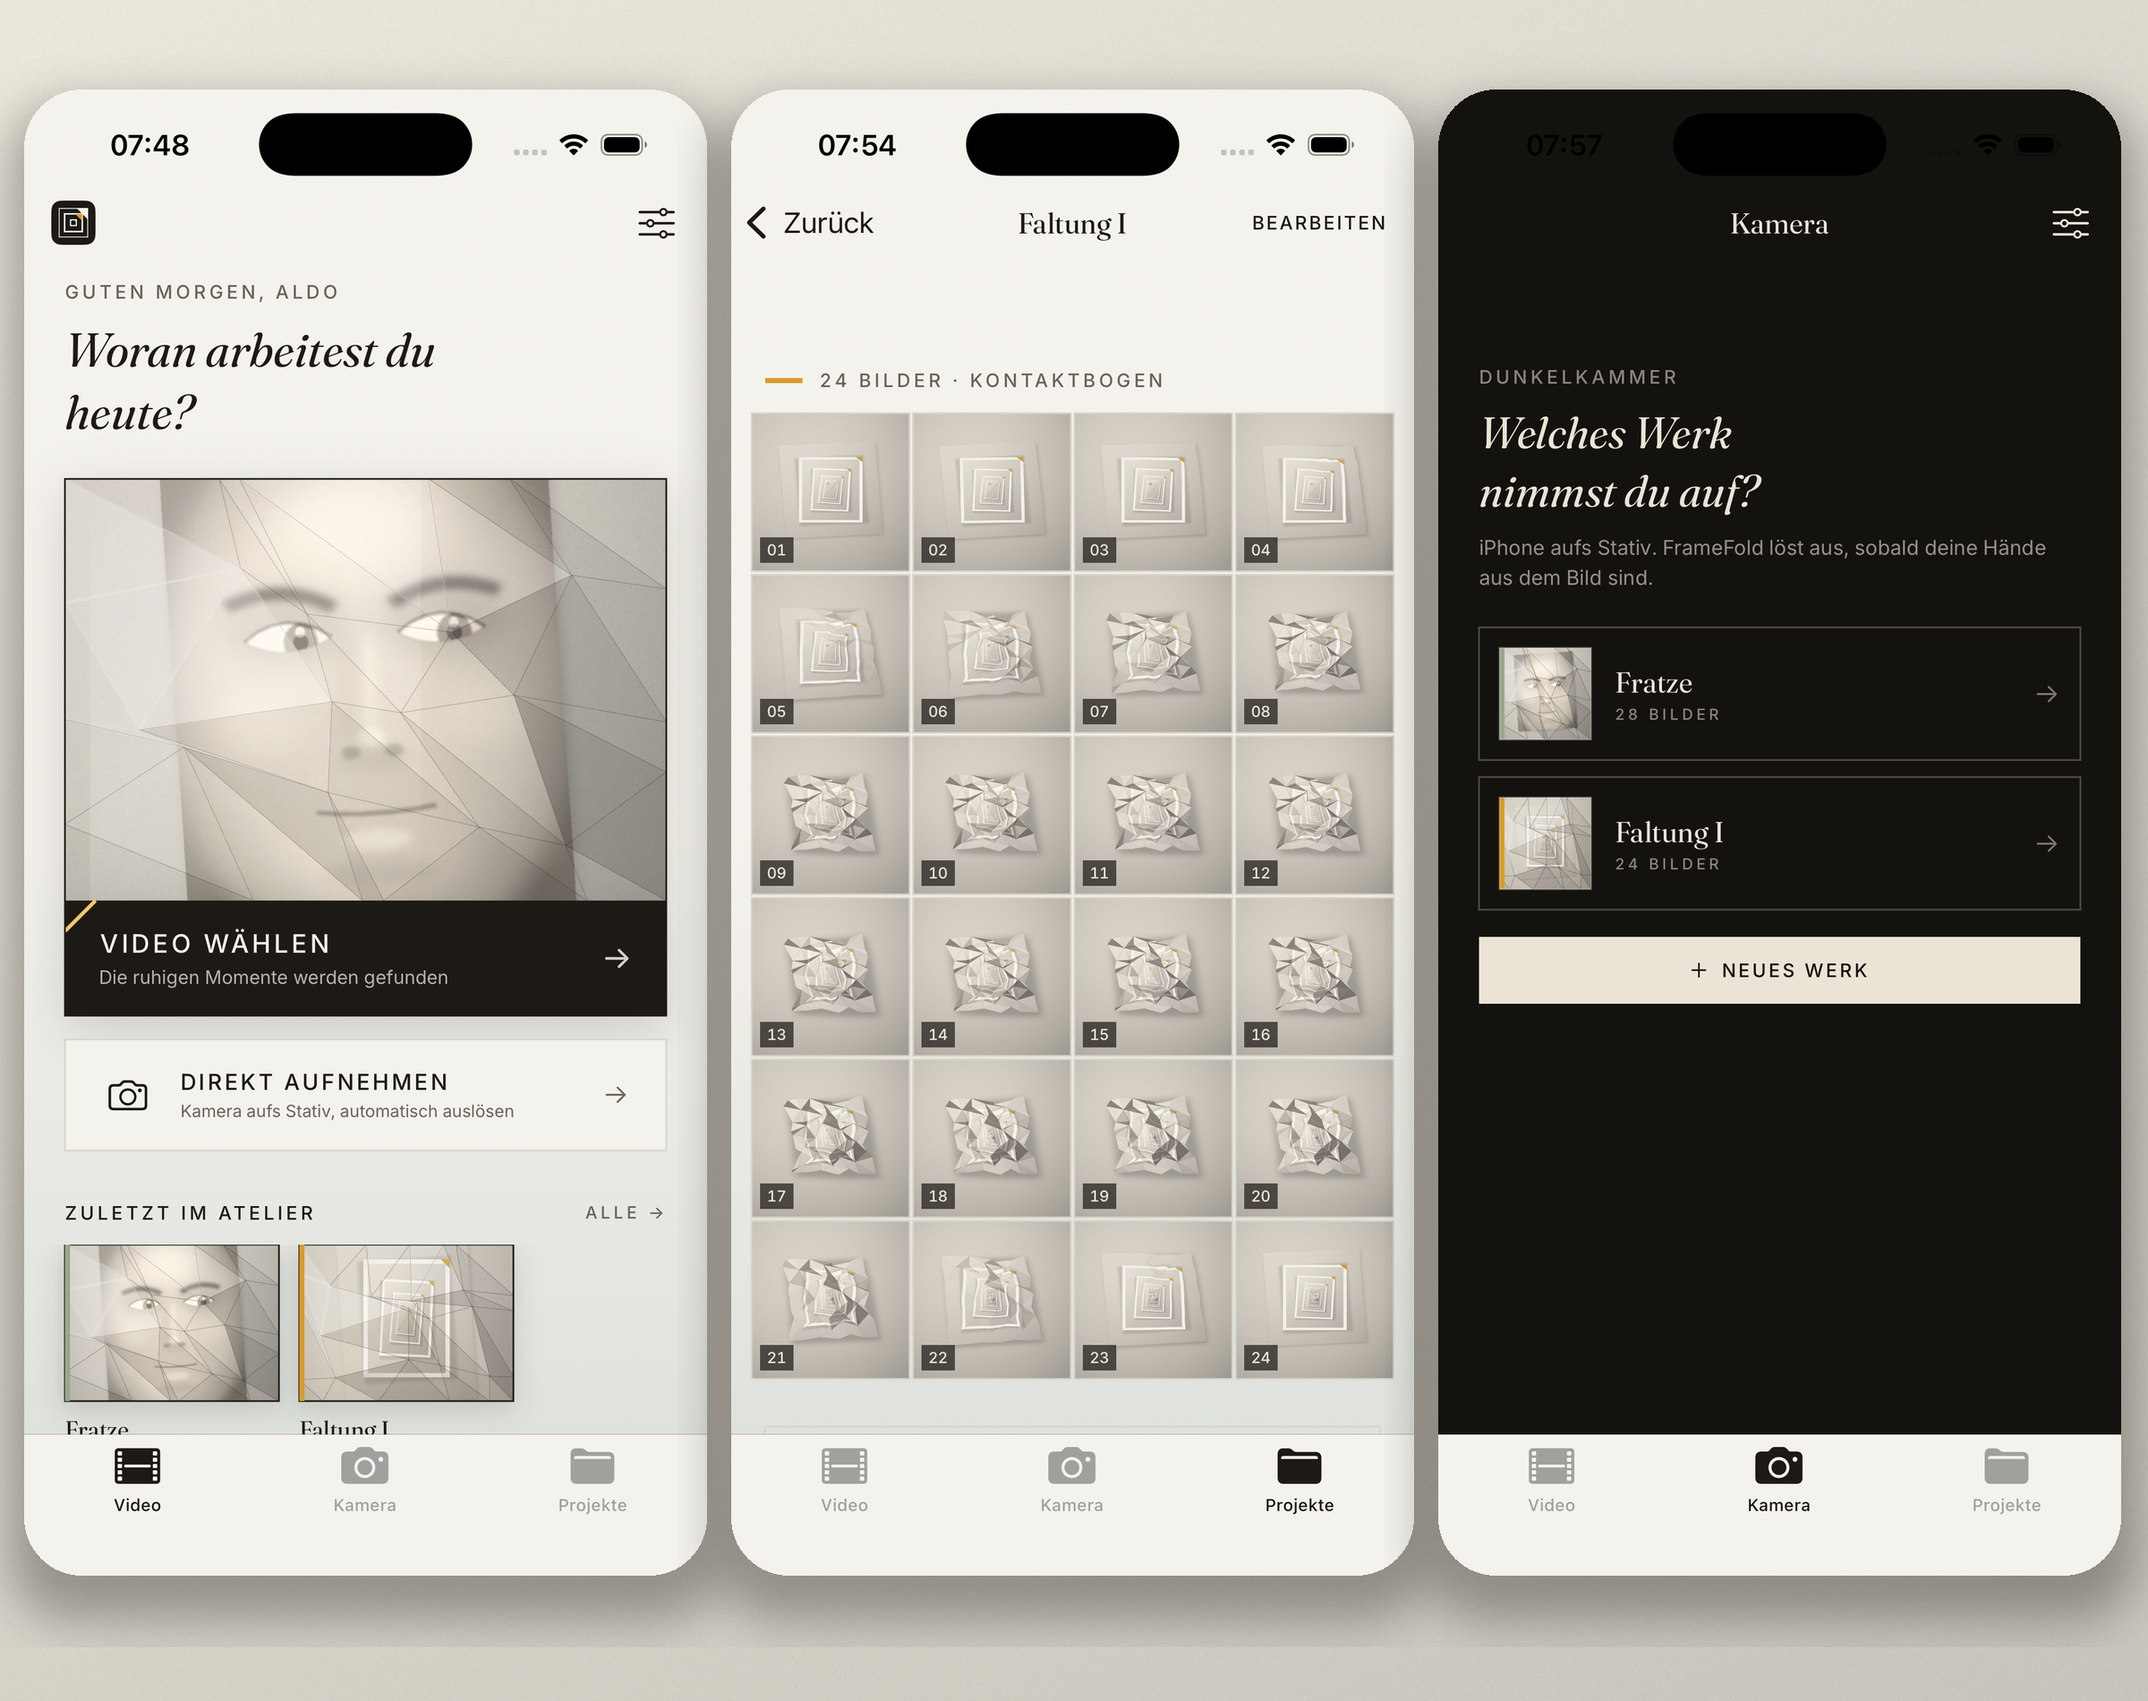
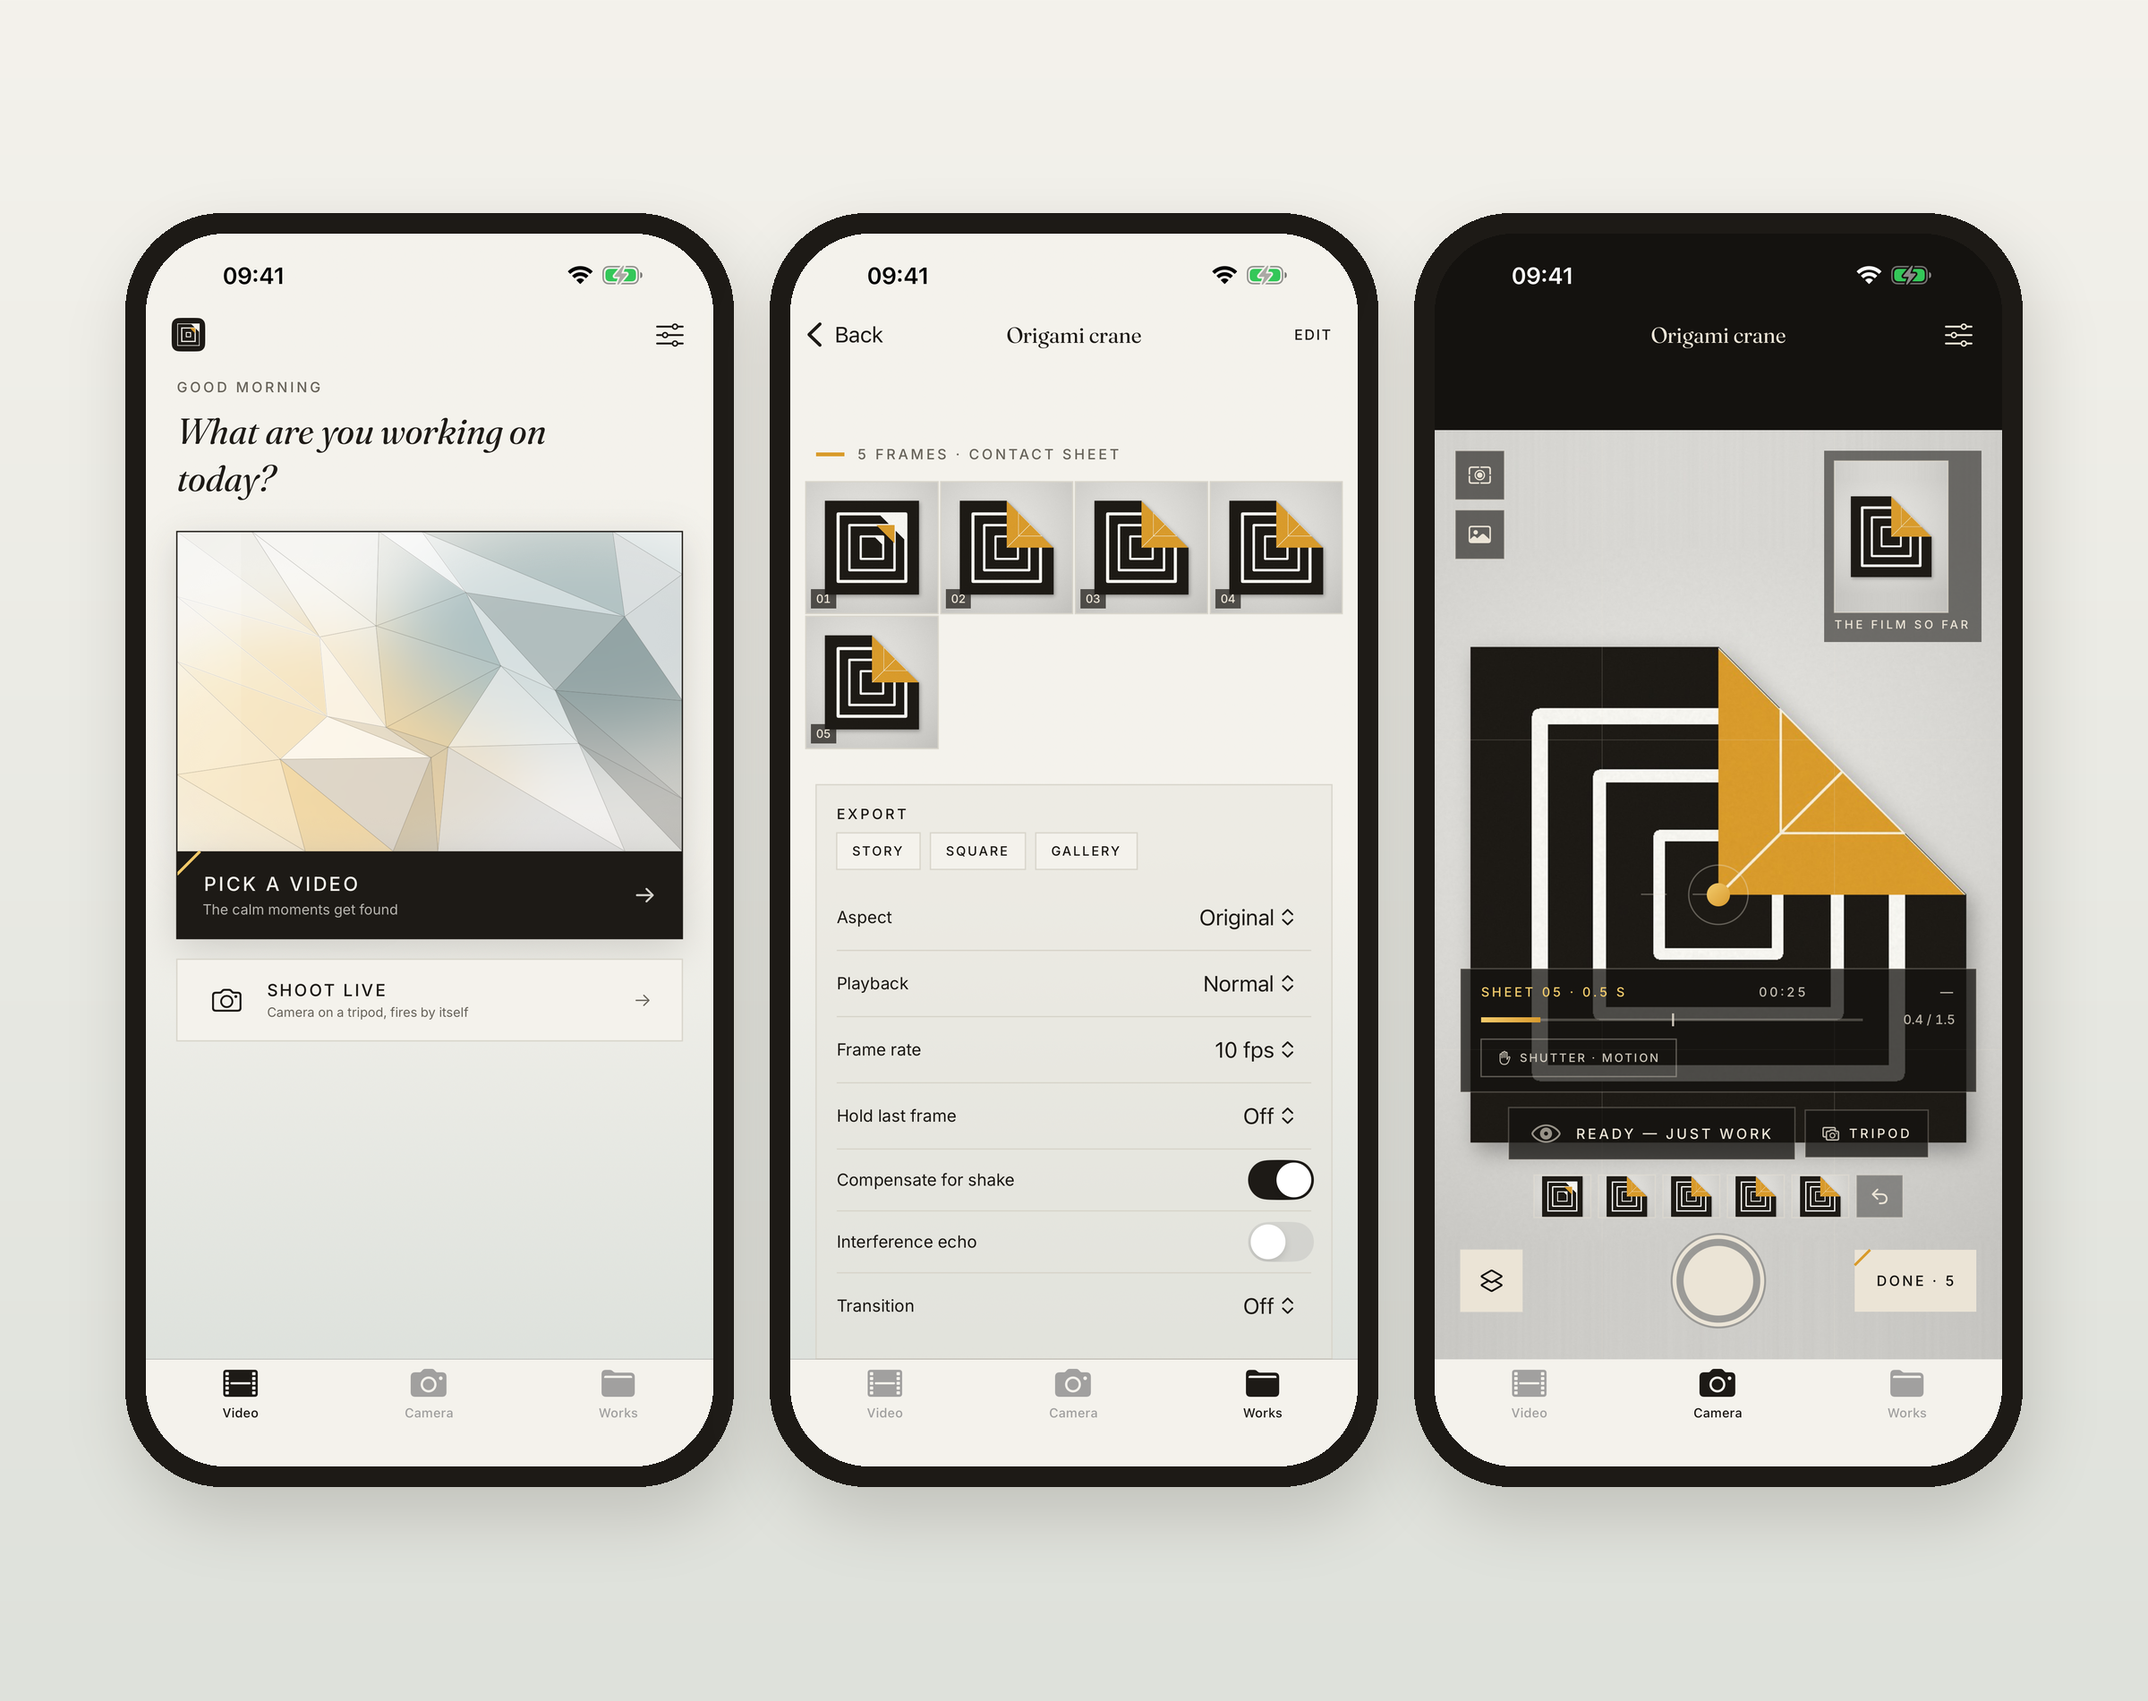
README-Bilder ohne Aldo-Material: Titelbild, Demo-GIF, Social-Preview neu
- docs/app.png: drei iPhones mit den 2.3-Store-Bildern (EN) statt
  „Guten Morgen, Aldo“, „Fratze“ und „Faltung I“.
- docs/demo.gif: das eigene Faltbeispiel aus dem Spot statt Aldos Faltung.
- docs/social-preview.png: ohne Aldo-Zeile, aktuell (iPhone, Mac, Watch).
- Bildunterschriften zu GIF und Spot angepasst.
- scripts/readme_assets.py erzeugt alle drei aus eigenem Material.

diff --git a/scripts/readme_assets.py b/scripts/readme_assets.py
@@ -1,0 +1,104 @@
+#!/usr/bin/env python3
+"""Bilder für die README: Titelbild (drei iPhones mit den Store-Bildern),
+Demo-GIF (das eigene Faltbeispiel aus dem Spot) und Social-Preview.
+Nur eigenes Material.
+
+  eval/.venv/bin/python scripts/readme_assets.py
+"""
+from pathlib import Path
+
+import numpy as np
+from PIL import Image, ImageDraw, ImageFilter, ImageFont
+
+ROOT = Path(__file__).resolve().parent.parent
+DOCS = ROOT / "docs"
+SHOTS = ROOT / "fastlane" / "screenshots" / "en-US"
+ASSETS = ROOT / "FrameFold" / "Assets.xcassets"
+FOLD = ROOT.parent / "framefold-spot" / "faltung.npy"
+INK, GRAPHITE, AMBER = (29, 26, 22), (104, 100, 91), (217, 155, 43)
+
+
+def font(name, size):
+    return ImageFont.truetype(str(ASSETS / f"{name}.dataset" / f"{name}.ttf"), size)
+
+
+def backdrop(w, h):
+    """Heller Galerieverlauf, oben warmes Papier, unten kühler."""
+    top, bottom = np.array([244, 242, 236], np.float32), np.array([222, 225, 219], np.float32)
+    t = np.linspace(0, 1, h, dtype=np.float32)[:, None, None]
+    img = top * (1 - t) + bottom * t
+    return Image.fromarray(np.repeat(img, w, axis=1).astype(np.uint8))
+
+
+def phone(shot, width):
+    """Bildschirmfoto im schlichten iPhone-Rahmen mit runden Ecken."""
+    s = Image.open(shot).convert("RGB")
+    sw = width - 2 * int(width * 0.035)
+    sh = int(sw * s.height / s.width)
+    s = s.resize((sw, sh), Image.LANCZOS)
+    b = int(width * 0.035)
+    w, h = width, sh + 2 * b
+    body = Image.new("RGB", (w, h), INK)
+    mask = Image.new("L", (w, h), 0)
+    ImageDraw.Draw(mask).rounded_rectangle((0, 0, w - 1, h - 1), radius=int(w * 0.16), fill=255)
+    smask = Image.new("L", (sw, sh), 0)
+    ImageDraw.Draw(smask).rounded_rectangle((0, 0, sw - 1, sh - 1), radius=int(w * 0.13), fill=255)
+    body.paste(s, (b, b), smask)
+    return body, mask
+
+
+def header():
+    W, H = 2400, 1900
+    img = backdrop(W, H)
+    pw = 680
+    names = ["01-start.png", "04-kontaktbogen.png", "02-kamera.png"]
+    xs = [140, (W - pw) // 2, W - 140 - pw]
+    for name, x in zip(names, xs):
+        body, mask = phone(SHOTS / name, pw)
+        y = (H - body.height) // 2
+        sh = Image.new("L", (W, H), 0)
+        sh.paste(mask.point(lambda v: v * 0.30), (x + 10, y + 34))
+        sh = sh.filter(ImageFilter.GaussianBlur(36))
+        img.paste(Image.new("RGB", (W, H), (120, 116, 108)), (0, 0), sh)
+        img.paste(body, (x, y), mask)
+    img.save(DOCS / "app.png", optimize=True)
+
+
+def demo_gif():
+    """Das Faltbeispiel hin und zurück im Stopmotion-Takt, 420 × 560."""
+    frames = np.load(FOLD)
+    W, H = 420, 560
+    picks = list(range(0, 96, 3)) + list(range(93, -1, -4))
+    out = []
+    bg = backdrop(W, H)
+    for i in picks:
+        f = Image.fromarray(frames[i]).resize((W, W), Image.LANCZOS)
+        im = bg.copy()
+        im.paste(f, (0, (H - W) // 2))
+        out.append(im.quantize(colors=96, method=Image.MEDIANCUT, dither=Image.NONE))
+    out[0].save(DOCS / "demo.gif", save_all=True, append_images=out[1:], duration=120, loop=0, optimize=True)
+    return len(out)
+
+
+def social():
+    W, H = 2560, 1280
+    img = backdrop(W, H)
+    d = ImageDraw.Draw(img)
+    d.text((240, 330), "STOP-MOTION · BY ITSELF", font=font("Inter-Medium", 46), fill=GRAPHITE)
+    d.text((228, 400), "FrameFold", font=font("Fraunces-Regular", 250), fill=INK)
+    d.text((240, 700), "You fold. It films.", font=font("Fraunces-Italic", 92), fill=INK)
+    d.text((240, 850), "Shoots the moment your hands leave the frame.",
+           font=font("Inter-Regular", 46), fill=GRAPHITE)
+    d.line((240, 960, 900, 960), fill=(200, 196, 188), width=3)
+    d.text((240, 1000), "iPhone · Mac · Apple Watch · on-device · free", font=font("Inter-Regular", 40), fill=GRAPHITE)
+    fold = np.load(FOLD)[47]
+    f = Image.fromarray(fold).resize((760, 760), Image.LANCZOS)
+    img.paste(f, (W - 760 - 200, (H - 760) // 2))
+    img.save(DOCS / "social-preview.png", optimize=True)
+
+
+if __name__ == "__main__":
+    header()
+    n = demo_gif()
+    social()
+    print("app.png, demo.gif (%d Bilder), social-preview.png" % n)

diff --git a/README.md b/README.md
@@ -18,13 +18,13 @@
 </div>
 
 <div align="center">
-<img src="docs/demo.gif" width="320" alt="Made with FrameFold: a print folds itself into facets and back — image, object, image" />
-<br/><sub><em>This demo was made with FrameFold. What else.<br/>Keyframe selection, facet transitions, paper relief and image echo — all rendered by the app's own pipeline.</em></sub>
+<img src="docs/demo.gif" width="320" alt="A square sheet with the FrameFold mark folds into an amber envelope and back — image, object, image" />
+<br/><sub><em>The fold from the spot, in stop-motion rhythm: image, object, image.<br/>Paper and fold generated in code — the same sequence feeds the simulator camera for the App Store preview.</em></sub>
 </div>
 
 <div align="center">
 <a href="docs/spot/framefold-spot-en.mp4"><img src="docs/spot/poster.jpg" width="640" alt="FrameFold spot: a folded amber paper object, “You fold. It films.”" /></a>
-<br/><sub><em>▶ The 16-second spot for 2.0 (with sound): auto-shutter, focus, live loop, studio monitor, Apple Watch, video import, flip book.<br/>Paper fold, animation and modular-synth soundtrack generated in code — no stock footage.</em></sub>
+<br/><sub><em>▶ The 16-second spot for 2.3 (with sound): auto-shutter, focus, live loop, Mac with a document camera, Apple Watch, video import, flip book.<br/>Paper fold, animation and modular-synth soundtrack generated in code — no stock footage.</em></sub>
 </div>
 
 ---
